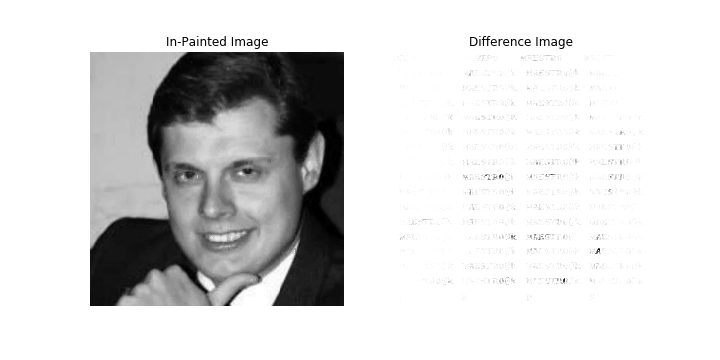
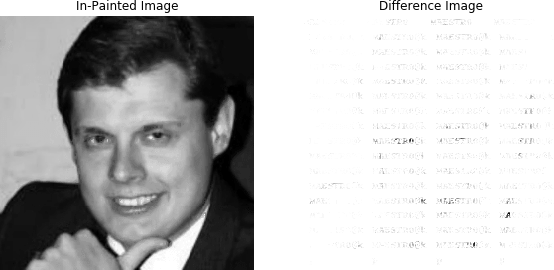
fix: tv inpainting

diff --git a/docs/applications/total_variation_inpainting.md b/docs/applications/total_variation_inpainting.md
@@ -56,6 +56,10 @@ Results are presented below (these computations are really take time):
 ![](../tv_start1.png)
 ![](../tv_finish1.png)
 
+It is not that easy, right?
+![](../tv_start2.png)
+![](../tv_finish2.png)
+
 # Code
 [![Open In Colab](https://colab.research.google.com/assets/colab-badge.svg#button)](https://colab.research.google.com/drive/1eo2gCGoCfIYP5qAv8tPGpSw1U4w-wpDe)
 # References

diff --git a/docs/Materials.md b/docs/Materials.md
@@ -41,3 +41,5 @@ nav_order: 6
 * [Blog](http://blog.mrtz.org/) by Moritz Hardt.
 
 * [Blog](http://www.pokutta.com/blog/) by Sebastian Pokutta with great cheat sheets on optimization.
+
+* [Nice set of python applied math etudes](https://www.numerical-tours.com/python/)
